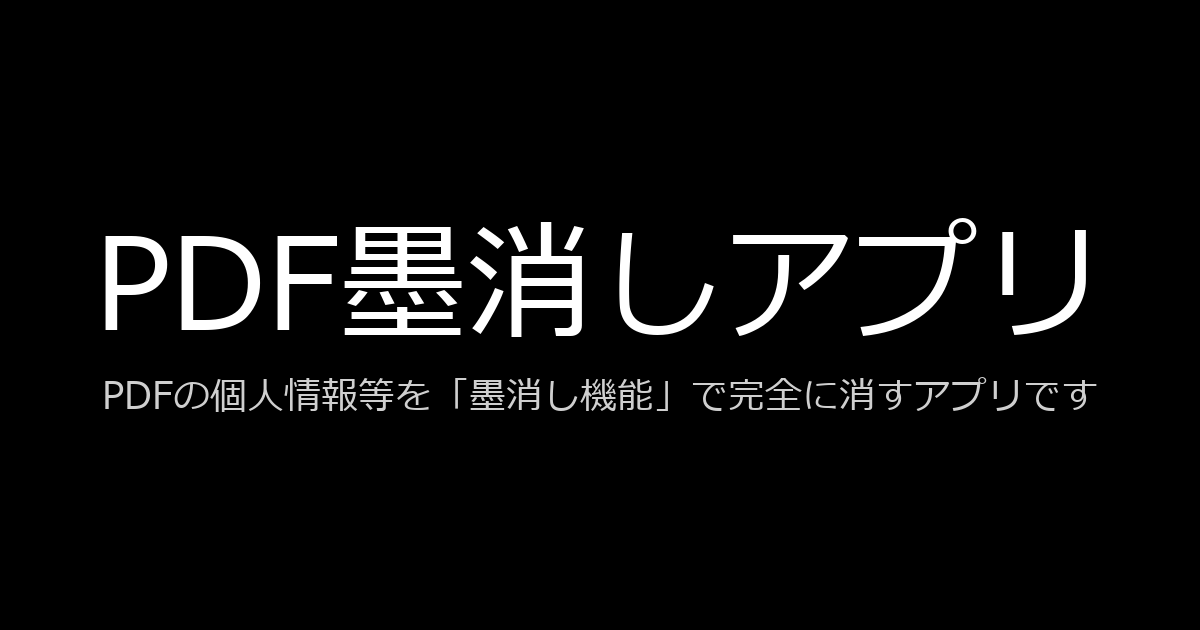
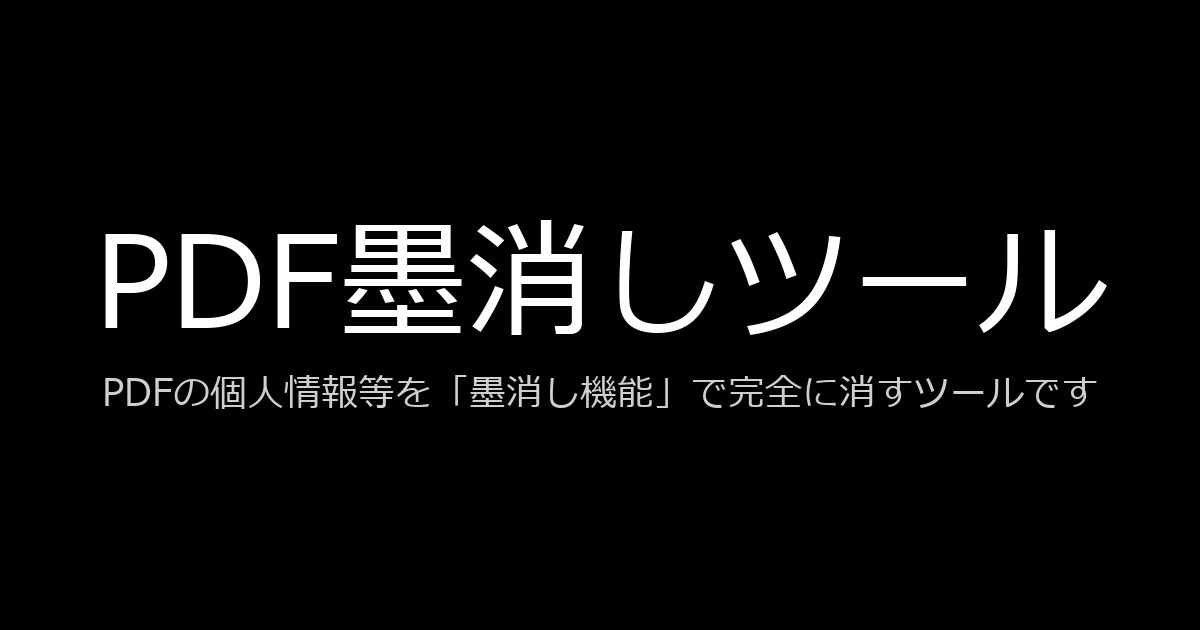
Update pdf-redactor

diff --git a/public/pdf-redactor-offline.html b/public/pdf-redactor-offline.html
@@ -7,7 +7,7 @@
[1 lines of base64/hex data omitted]
 <meta property="og:type" content="website">
 <meta property="og:url" content="https://pdf-redactor.pages.dev/">
-<meta property="og:title" content="PDF 墨消しアプリ">
+<meta property="og:title" content="PDF 墨消しツール">
 <meta property="og:description" content="スキャンPDFの氏名・住所などをブラウザだけで黒塗り。送信なし・ローカルで完結、オフライン版もあります。">
 <!-- og:imageは正方形を1枚目に置く。多くのクローラー(Teams等)は複数og:imageのうち
      1枚目を機械的に使い、小さいサムネイル枠では中央を正方形にトリミングする。1枚目が
@@ -23,7 +23,7 @@
 <meta property="og:image:height" content="630">
 <meta property="og:image:type" content="image/png">
 <meta name="twitter:card" content="summary_large_image">
-<meta name="twitter:title" content="PDF 墨消しアプリ">
+<meta name="twitter:title" content="PDF 墨消しツール">
 <meta name="twitter:description" content="スキャンPDFの氏名・住所などをブラウザだけで黒塗り。送信なし・ローカルで完結、オフライン版もあります。">
 <meta name="twitter:image" content="https://pdf-redactor.pages.dev/og-image-large.png">
 <!-- ライブラリはCDN。プライバシー用途なので後でローカルに同梱(vendor)する予定。
@@ -188,7 +188,7 @@
   <aside class="sidebar">
     <div class="brand">
       <div class="app-title">PDF 墨消し</div>
-      <div class="app-sub">※外部への送信はなくローカルで完結するアプリです。ご利用前に<a href="#disclaimer">免責事項</a>をご覧ください。</div>
+      <div class="app-sub">※外部への送信はなくローカルで完結するツールです。ご利用前に<a href="#disclaimer">免責事項</a>をご覧ください。</div>
     </div>
 
     <div class="section">
@@ -251,15 +251,15 @@
 
     <div id="secondary-info">
       <div class="section">
-        <div class="shead">■ このアプリについて</div>
-        <div class="cap">※スキャンPDF・サーチャブルPDFの墨消しをするアプリです。オフライン版も用意しています。</div>
+        <div class="shead">■ このツールについて</div>
+        <div class="cap">※スキャンPDF・サーチャブルPDFの墨消しをするツールです。オフライン版も用意しています。</div>
         <div class="cap">※ご意見・ご要望は作成者までご連絡ください</div>
         <a class="link" href="https://x.com/minnanosaiban" target="_blank" rel="noopener"><svg class="icon" style="vertical-align:-0.15em" xmlns="http://www.w3.org/2000/svg" fill="currentColor" viewBox="0 0 16 16" aria-hidden="true"><path d="M12.6.75h2.454l-5.36 6.142L16 15.25h-4.937l-3.867-5.07-4.425 5.07H.316l5.733-6.57L0 .75h5.063l3.495 4.633L12.601.75Zm-.86 13.028h1.36L4.323 2.145H2.865z"/></svg> @minnanosaiban</a>
       </div>
 
       <div class="section" id="disclaimer">
         <div class="shead">■ 免責事項</div>
-        <div class="cap">※本ツールは無保証で提供されます（現状有姿）。なお、本アプリのコードは GitHub に公開しています。</div>
+        <div class="cap">※本ツールは無保証で提供されます（現状有姿）。なお、コードは GitHub に公開しています。</div>
         <a class="gh-link" href="https://github.com/minnanosaiban/pdf-redactor" target="_blank" rel="noopener" title="ソースコード（GitHub）" aria-label="ソースコード（GitHub）">
           <svg class="icon" xmlns="http://www.w3.org/2000/svg" fill="currentColor" viewBox="0 0 16 16" aria-hidden="true">
             <path d="M8 0C3.58 0 0 3.58 0 8c0 3.54 2.29 6.53 5.47 7.59.4.07.55-.17.55-.38 0-.19-.01-.82-.01-1.49-2.01.37-2.53-.49-2.69-.94-.09-.23-.48-.94-.82-1.13-.28-.15-.68-.52-.01-.53.63-.01 1.08.58 1.23.82.72 1.21 1.87.87 2.33.66.07-.52.28-.87.51-1.07-1.78-.2-3.64-.89-3.64-3.95 0-.87.31-1.59.82-2.15-.08-.2-.36-1.02.08-2.12 0 0 .67-.21 2.2.82.64-.18 1.32-.27 2-.27s1.36.09 2 .27c1.53-1.04 2.2-.82 2.2-.82.44 1.1.16 1.92.08 2.12.51.56.82 1.27.82 2.15 0 3.07-1.87 3.75-3.65 3.95.29.25.54.73.54 1.48 0 1.07-.01 1.93-.01 2.2 0 .21.15.46.55.38A8.01 8.01 0 0 0 16 8c0-4.42-3.58-8-8-8"/>
@@ -325,7 +325,7 @@ const scrollToMain = () => {
   if (mobileQuery.matches) statusEl.scrollIntoView({ behavior: "smooth", block: "start" });
 };
 
-// 「このアプリについて」「免責事項」は、モバイル幅では情報より先に操作・結果を見せたいので
+// 「このツールについて」「免責事項」は、モバイル幅では情報より先に操作・結果を見せたいので
 // プレビュー（本文）の下へ実際に移動し、デスクトップ幅ではサイドバー内の元の位置に戻す。
 // 複製はしない（免責事項へのリンク先要素が常に1つだけになるようにするため）。
 const secondaryInfo = $("secondary-info");

diff --git a/public/index.html b/public/index.html
@@ -7,7 +7,7 @@
 <link rel="icon" type="image/svg+xml" href="favicon.svg">
 <meta property="og:type" content="website">
 <meta property="og:url" content="https://pdf-redactor.pages.dev/">
-<meta property="og:title" content="PDF 墨消しアプリ">
+<meta property="og:title" content="PDF 墨消しツール">
 <meta property="og:description" content="スキャンPDFの氏名・住所などをブラウザだけで黒塗り。送信なし・ローカルで完結、オフライン版もあります。">
 <!-- og:imageは正方形を1枚目に置く。多くのクローラー(Teams等)は複数og:imageのうち
      1枚目を機械的に使い、小さいサムネイル枠では中央を正方形にトリミングする。1枚目が
@@ -23,7 +23,7 @@
 <meta property="og:image:height" content="630">
 <meta property="og:image:type" content="image/png">
 <meta name="twitter:card" content="summary_large_image">
-<meta name="twitter:title" content="PDF 墨消しアプリ">
+<meta name="twitter:title" content="PDF 墨消しツール">
 <meta name="twitter:description" content="スキャンPDFの氏名・住所などをブラウザだけで黒塗り。送信なし・ローカルで完結、オフライン版もあります。">
 <meta name="twitter:image" content="https://pdf-redactor.pages.dev/og-image-large.png">
 <!-- ライブラリはCDN。プライバシー用途なので後でローカルに同梱(vendor)する予定。
@@ -125,7 +125,7 @@
   <aside class="sidebar">
     <div class="brand">
       <div class="app-title">PDF 墨消し</div>
-      <div class="app-sub">※外部への送信はなくローカルで完結するアプリです。ご利用前に<a href="#disclaimer">免責事項</a>をご覧ください。</div>
+      <div class="app-sub">※外部への送信はなくローカルで完結するツールです。ご利用前に<a href="#disclaimer">免責事項</a>をご覧ください。</div>
     </div>
 
     <div class="section">
@@ -188,8 +188,8 @@
 
     <div id="secondary-info">
       <div class="section">
-        <div class="shead">■ このアプリについて</div>
-        <div class="cap">※スキャンPDF・サーチャブルPDFの墨消しをするアプリです。オフライン版も用意しています。</div>
+        <div class="shead">■ このツールについて</div>
+        <div class="cap">※スキャンPDF・サーチャブルPDFの墨消しをするツールです。オフライン版も用意しています。</div>
         <a class="link" href="pdf-redactor-offline.html" download><svg class="icon" style="vertical-align:-0.15em" xmlns="http://www.w3.org/2000/svg" fill="currentColor" viewBox="0 0 16 16" aria-hidden="true"><path d="M.5 9.9a.5.5 0 0 1 .5.5v2.5a1 1 0 0 0 1 1h12a1 1 0 0 0 1-1v-2.5a.5.5 0 0 1 1 0v2.5a2 2 0 0 1-2 2H2a2 2 0 0 1-2-2v-2.5a.5.5 0 0 1 .5-.5"/><path d="M7.646 11.854a.5.5 0 0 0 .708 0l3-3a.5.5 0 0 0-.708-.708L8.5 10.293V1.5a.5.5 0 0 0-1 0v8.793L5.354 8.146a.5.5 0 1 0-.708.708z"/></svg> オフライン版をダウンロード</a>
         <div class="cap">※ご意見・ご要望は作成者までご連絡ください</div>
         <a class="link" href="https://x.com/minnanosaiban" target="_blank" rel="noopener"><svg class="icon" style="vertical-align:-0.15em" xmlns="http://www.w3.org/2000/svg" fill="currentColor" viewBox="0 0 16 16" aria-hidden="true"><path d="M12.6.75h2.454l-5.36 6.142L16 15.25h-4.937l-3.867-5.07-4.425 5.07H.316l5.733-6.57L0 .75h5.063l3.495 4.633L12.601.75Zm-.86 13.028h1.36L4.323 2.145H2.865z"/></svg> @minnanosaiban</a>
@@ -197,7 +197,7 @@
 
       <div class="section" id="disclaimer">
         <div class="shead">■ 免責事項</div>
-        <div class="cap">※本ツールは無保証で提供されます（現状有姿）。なお、本アプリのコードは GitHub に公開しています。</div>
+        <div class="cap">※本ツールは無保証で提供されます（現状有姿）。なお、コードは GitHub に公開しています。</div>
         <a class="gh-link" href="https://github.com/minnanosaiban/pdf-redactor" target="_blank" rel="noopener" title="ソースコード（GitHub）" aria-label="ソースコード（GitHub）">
           <svg class="icon" xmlns="http://www.w3.org/2000/svg" fill="currentColor" viewBox="0 0 16 16" aria-hidden="true">
             <path d="M8 0C3.58 0 0 3.58 0 8c0 3.54 2.29 6.53 5.47 7.59.4.07.55-.17.55-.38 0-.19-.01-.82-.01-1.49-2.01.37-2.53-.49-2.69-.94-.09-.23-.48-.94-.82-1.13-.28-.15-.68-.52-.01-.53.63-.01 1.08.58 1.23.82.72 1.21 1.87.87 2.33.66.07-.52.28-.87.51-1.07-1.78-.2-3.64-.89-3.64-3.95 0-.87.31-1.59.82-2.15-.08-.2-.36-1.02.08-2.12 0 0 .67-.21 2.2.82.64-.18 1.32-.27 2-.27s1.36.09 2 .27c1.53-1.04 2.2-.82 2.2-.82.44 1.1.16 1.92.08 2.12.51.56.82 1.27.82 2.15 0 3.07-1.87 3.75-3.65 3.95.29.25.54.73.54 1.48 0 1.07-.01 1.93-.01 2.2 0 .21.15.46.55.38A8.01 8.01 0 0 0 16 8c0-4.42-3.58-8-8-8"/>

diff --git a/public/app.js b/public/app.js
@@ -41,7 +41,7 @@ const scrollToMain = () => {
   if (mobileQuery.matches) statusEl.scrollIntoView({ behavior: "smooth", block: "start" });
 };
 
-// 「このアプリについて」「免責事項」は、モバイル幅では情報より先に操作・結果を見せたいので
+// 「このツールについて」「免責事項」は、モバイル幅では情報より先に操作・結果を見せたいので
 // プレビュー（本文）の下へ実際に移動し、デスクトップ幅ではサイドバー内の元の位置に戻す。
 // 複製はしない（免責事項へのリンク先要素が常に1つだけになるようにするため）。
 const secondaryInfo = $("secondary-info");

diff --git a/scripts/make_og_images.py b/scripts/make_og_images.py
@@ -61,8 +61,8 @@ def make_square():
 def make_large():
     w, h = 1200, 630
     pad_x_title, pad_x_sub, gap = 90, 90, 40
-    title = "PDF墨消しアプリ"
-    subtitle = "PDFの個人情報等を「墨消し機能」で完全に消すアプリです"
+    title = "PDF墨消しツール"
+    subtitle = "PDFの個人情報等を「墨消し機能」で完全に消すツールです"
 
     scratch = ImageDraw.Draw(Image.new("RGB", (10, 10)))
     title_font, tb, title_size = fit(scratch, title, w - 2 * pad_x_title, 200)

diff --git a/README.md b/README.md
@@ -2,15 +2,15 @@
 
 🔗 https://pdf-redactor.pages.dev/
 
-## このアプリについて
+## このツールについて
 
-- スキャンPDF・サーチャブルPDFの墨消しをするアプリです。オフライン版も用意しています。
+- スキャンPDF・サーチャブルPDFの墨消しをするツールです。オフライン版も用意しています。
 - **処理はすべてローカルで完結し、PDFはサーバーに送信されません。**
 - 公開は Cloudflare Pages を利用しています。
 
 ## 免責事項
 
-- 本ツールは無保証で提供されます（現状有姿）。なお、本アプリのコードは GitHub に公開しています。
+- 本ツールは無保証で提供されます（現状有姿）。なお、コードは GitHub に公開しています。
 - 処理はお使いのローカルで完結しPDFは外部送信されませんが、ご利用環境に起因する情報漏えいについて作成者は責任を負いません。
 - 本ツールの利用により生じたいかなる損害についても作成者は責任を負わず、本ツールは法的助言を提供するものではありません。
 - 墨消しは各ページを画像化して黒く塗りつぶす方式です。消し忘れ・塗り不足を含め、出力結果の最終確認は利用者の責任で行ってください。
